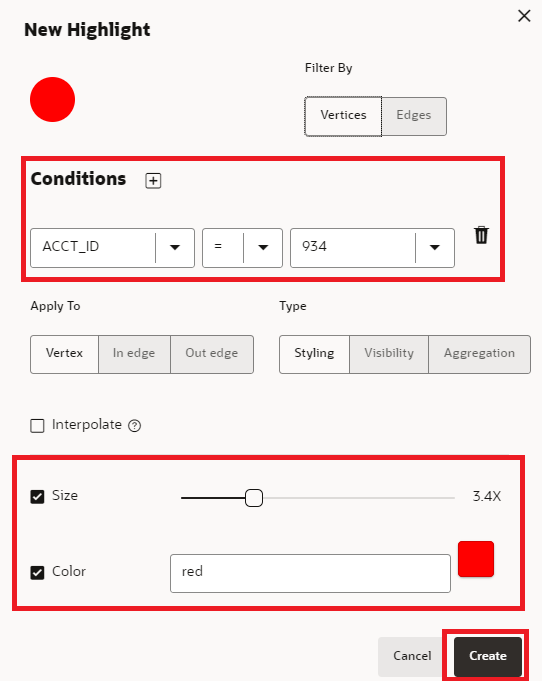
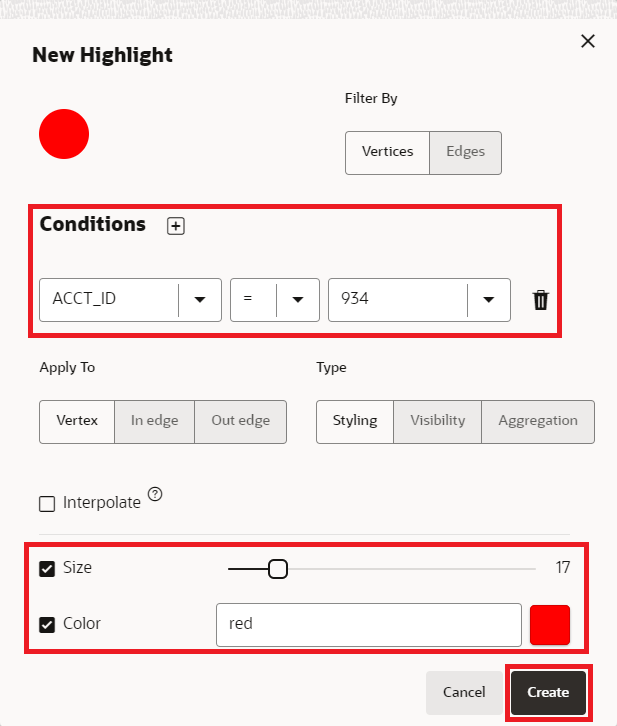
WMS ID 4261: updated screenshots and descriptions  (#84)
* Updated manifest for sandbox configuration 4261

* Updated manifest for Workshop ID: 4261

* ID: 4261 Updated manifest and screenshots to show redwood interface

* ID: 11018 - Updated screenshots and instructions to match redwood theme

* Updated bank graph lab to be consistent in format and added a new manifest for moviesteam for future event

* updated format of bank_graph

* updated manifest and lab

* updated livelab

* updated livelab

* updated manifest for level up

* Deleted the unnecessary text files and updated the manifest

* updated instructions

* updated screenshots

* updated lab to fit new green button dataset

* updated an image missing

* updated livelab

* updated queries

* adding the compartment block

* 1018 - updated manifest and fixed format for Self QA

* made corrections for  self qa

* ID:4261 updated object storage link and corrected queries

* made some corrections in the intro

* fixed minor typos

* ID 4261 - updated PAR link

* ID 4261: updated instructions

* changes to the PAR URL

* corrected typos

* ID 4261: updated the notebook link

* updated the PAR link

* added note to instructions

* ID 4261: Updated information to fit current version of livelab

* ID 4261: updated livelab for cloud world

* WMS: 4261 LL ID: 3599 Updated lab steps and manifest

* updated number that was missing

* WMS ID 4261 LiveLabs ID 3665: fixed typos and updated screenshots

* new PAR link updated
[…]

Changed region(s): [[0.0, 0.0308, 0.9742, 1.0], [0.9446, 0.0, 0.9742, 0.0617]]

diff --git a/adb-graph/work-with-csv-files/query-graph/query-graph.md b/adb-graph/work-with-csv-files/query-graph/query-graph.md
@@ -82,18 +82,17 @@ If the compute environment is not ready as yet and the code cannot be executed t
 
      ```
      <copy>
-     %python-pgx
-
+    %python-pgx
     GRAPH_NAME="BANK_GRAPH"
     # try getting the graph from the in-memory graph server
     graph = session.get_graph(GRAPH_NAME)
     # if it does not exist read it into memory
     if (graph == None) :
-         session.read_graph_by_name(GRAPH_NAME, "pg_view")
-         print("Graph "+ GRAPH_NAME + " successfully loaded")
-         graph = session.get_graph(GRAPH_NAME)
+        session.read_graph_by_name(GRAPH_NAME, "pg_view")
+        print("Graph "+ GRAPH_NAME + " successfully loaded")
+        graph = session.get_graph(GRAPH_NAME)
     else :
-         print("Graph '"+ GRAPH_NAME + "' already loaded")</copy>
+        print("Graph '"+ GRAPH_NAME + "' already loaded")</copy>
      ```
 
     ![Uploading graph in memory if it's not loaded yet](images/pythonquery1.png " ")  
@@ -203,7 +202,7 @@ If the compute environment is not ready as yet and the code cannot be executed t
 
     ![screen showing how to add highlight](images/new-highlight.png " ")
 
-    Add a new highlight with **ACCT_ID = 934** as the condition, **size = 3.4X** and **color = red** as the visual effect. Click **Create** and then the **X** on the top-right to exit the Settings dialog.
+    Add a new highlight with **ACCT_ID = 934** as the condition, **size = 17** and **color = red** as the visual effect. Click **Create** and then the **X** on the top-right to exit the Settings dialog.
 
     ![Showing the settings of the hightlights](images/highlight-settings.png " ")
 
@@ -240,7 +239,8 @@ If the compute environment is not ready as yet and the code cannot be executed t
     Execute the paragraph containing the following code snippet.
 
      ```
-     <copy>%python-pgx
+     <copy>
+    %python-pgx
     graph = session.get_graph("BANK_GRAPH")
     analyst.pagerank(graph);</copy>
      ```
@@ -286,7 +286,7 @@ A high PageRank value indicates that that account is important, which in the con
 
     ![shows how to pick hierarchical as layout](images/custom-hierarchical.png " ")  
 
-    Add a new highlight with **pagerank >= 0.0035** as the condition, **size = 3X** as the visual effect and **color = red**, then click Create. Click **Create** and then the **X** on the top-right to exit the Settings dialog.  
+    Add a new highlight with **pagerank >= 0.0035** as the condition, **size = 17** as the visual effect and **color = red**, then click Create. Click **Create** and then the **X** on the top-right to exit the Settings dialog.  
 
     ![shows the settings for the pagerank highlight](images/pagerank-highlight.png " ")   
 
@@ -311,7 +311,7 @@ A high PageRank value indicates that that account is important, which in the con
 
      ```
      <copy>%pgql-pgx
-     /* List 10 accounts with the most number of transactions (that is, incoming + outgoing edges) */
+     /* List 5 accounts with the most number of transactions (that is, incoming + outgoing edges) */
      SELECT a.acct_id, (in_degree(a) + out_degree(a)) as num_transactions
      FROM MATCH (a) ON bank_graph
      ORDER BY num_transactions DESC
@@ -371,8 +371,8 @@ A high PageRank value indicates that that account is important, which in the con
     It invokes the **Personalized PageRank algorithm** with the built-in analyst python object.
 
      ```
-     <copy>%python-pgx
-
+     <copy>
+    %python-pgx
     vertices = graph.create_vertex_set()
     vertices.add_all([graph.get_vertex("BANK_ACCOUNTS(934)"),graph.get_vertex("BANK_ACCOUNTS(387)")])
 
@@ -429,7 +429,8 @@ A high PageRank value indicates that that account is important, which in the con
     Execute the paragraphs containing the following code snippet.  
 
      ```
-     <copy>%python-pgx
+     <copy>
+    %python-pgx
     #By default this is property refers to account #934
     vertex = graph.get_vertex("BANK_ACCOUNTS(934)")
 
@@ -439,7 +440,8 @@ A high PageRank value indicates that that account is important, which in the con
     ![The code snippet uses the PgxGraph object containing a handle to the BANK_GRAPH that we got earlier. It invokes the ShortestPathHopDist() algorithm with the built-in analyst python object for 934.](images/shortestpath-algorithm.png " ")  
 
      ```
-     <copy>%python-pgx
+     <copy>
+    %python-pgx
     vertex = graph.get_vertex("BANK_ACCOUNTS(387)")
 
     analyst.shortest_path_hop_distance(graph, vertex, "hop_dist_from_387")</copy>
@@ -469,6 +471,8 @@ A high PageRank value indicates that that account is important, which in the con
      ORDER BY hops</copy>
      ```
     Change the view to table.
+    >**Note:** To display the tables side by side click on **Settings** and then adjust the size of the table.
+    ![Table showing number of hops in descending order](images/adjust-table-size.png " ")   
 
     ![Table showing number of hops in descending order](images/table-with-hops.png " ")    
 
